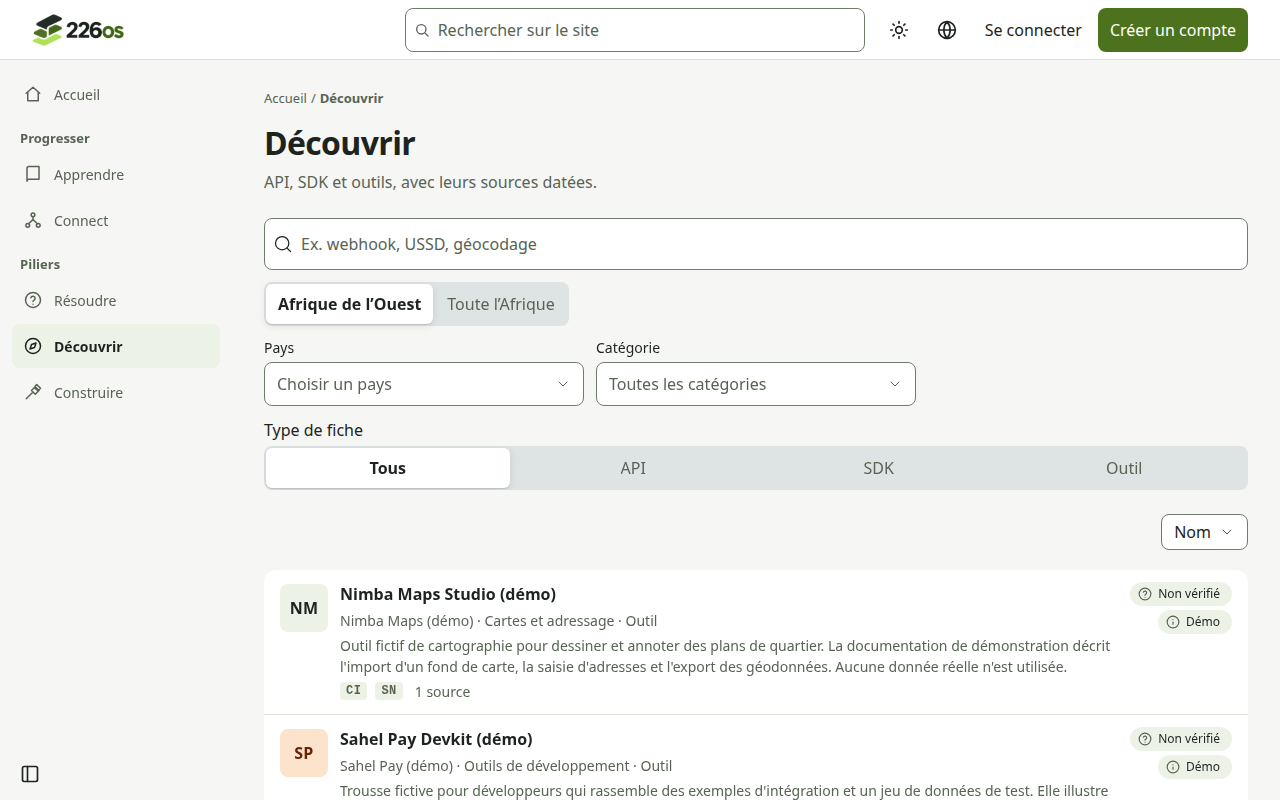
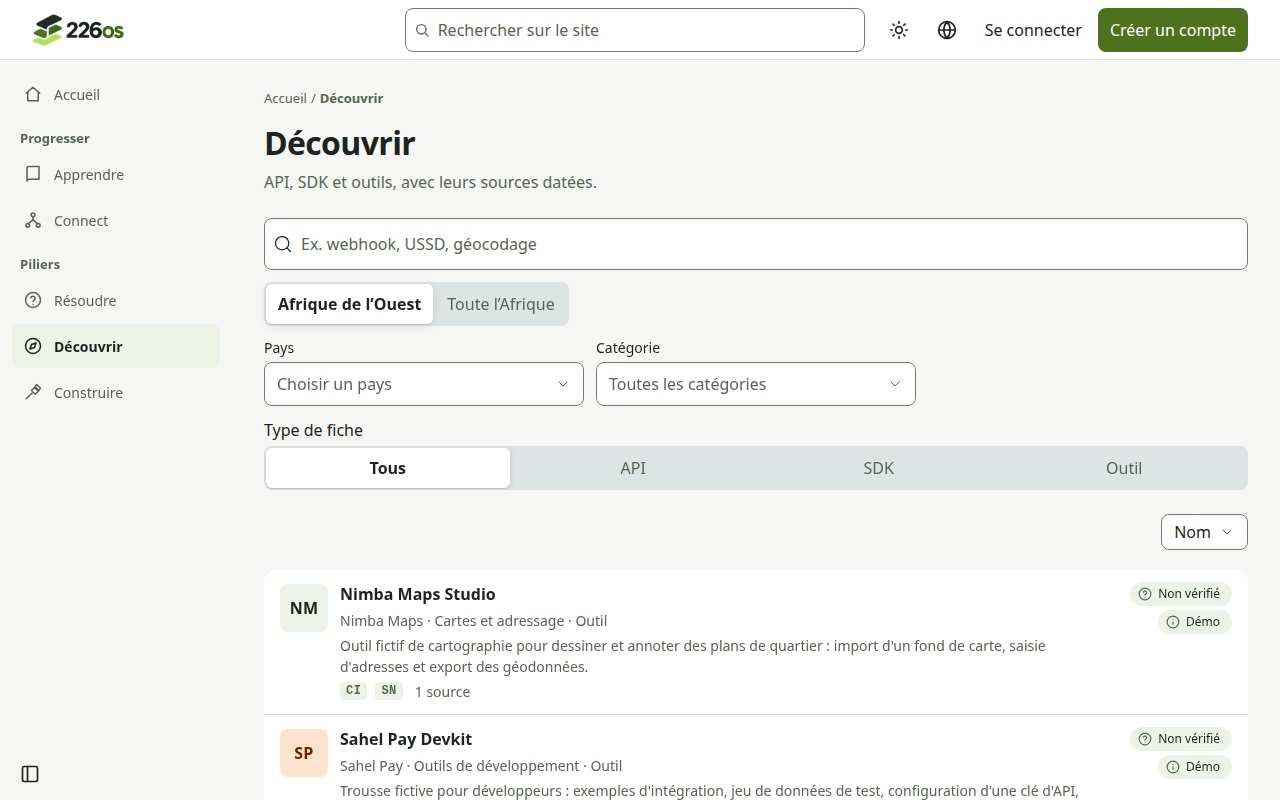
docs(quality): captures retaken after the demo reseed (current Discover text)

Changed region(s): [[0.25, 0.7812, 0.875, 0.8438], [0.3125, 0.9062, 0.875, 1.0], [0.3438, 0.7188, 0.5, 0.7812]]

diff --git a/docs/quality/PROTOTYPE_FIDELITY.md b/docs/quality/PROTOTYPE_FIDELITY.md
@@ -65,6 +65,6 @@ The first pass ran before the last round of fixes, which covered:
 
 ## Evidence
 - Captures, 58 files: [`evidence/fidelity/2026-11-15/`](evidence/fidelity/2026-11-15/), named `<page>-<app|proto>-<width>-<theme>.png`. The landing has app captures only.
-- 2026-11-15, after #256: the 30 app captures were taken again from the branch `fix/web/landing-shell`, with the same script, routes and sizes, served by Vite against the local-dev API. They show the positioning badge removed, the anonymous landing without a sidebar, and the sidebar collapse button. The prototype captures and the verdicts above are unchanged. The local-dev database was seeded before #241, so Discover still shows the older « (démo) » names.
+- 2026-11-15, after #256: the 30 app captures were taken again from the branch `fix/web/landing-shell`, with the same script, routes and sizes, served by Vite against the local-dev API. They show the positioning badge removed, the anonymous landing without a sidebar, and the sidebar collapse button. The prototype captures and the verdicts above are unchanged. Later the same day, after `APP_ENV=local-dev make seed` refreshed the demo text (#241), the app captures were taken again from `develop`. Discover now shows the current names and short summaries; Build and the demo people keep « (démo) » because those pages show no Démo badge.
 - Web gates on the branch at merge time: typecheck, lint and format:check PASS; Vitest PASS, 48 files and 646 tests.
 - ADR-0007 section 8 of [`ASTRYX_REPORT.md`](ASTRYX_REPORT.md) links these captures for its theme and flow rows.
